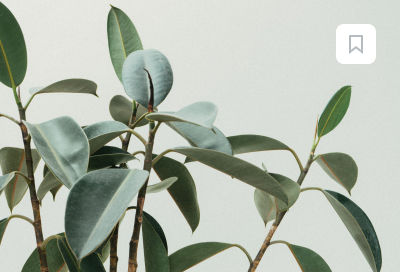
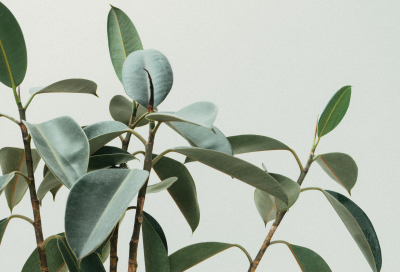
корректировки, до адаптива

Changed region(s): [[0.84, 0.0882, 0.96, 0.2353]]

diff --git a/src/index.html b/src/index.html
@@ -11,17 +11,18 @@
 <body>
   <div class="root">
     <section class="search">
+    <!--  <img src="<%=require('./images/georgia-de-lotz--UsJoNxLaNo-unsplash.jpg').default%>" alt="image" class="search__img"-->
       <header class="header">
         <div class="header__newsexplorer">NewsExplorer</div>
         <div class="header__container">
           <div class="header__main">
             <a href = "index.html" class="header__text header__text_white">Главная</a>
-            <hr class="header__vector header__hide header__text_white"> <!--TODO не БЭМ-->
+            <hr class="header__vector header__hide">
           </div>
-          <button class="button header__text header__hide">Авторизоваться</button>
+          <button class="button header__text header__text_white header__hide">Авторизоваться</button>
           <div class="header__main">
             <a href = "./add.html" class="header__text header__text_gray" target="_blank">Сохранённые статьи</a>
-            <hr class="header__vector"> <!--TODO сделать через вектор-->
+            <hr class="header__vector">
           </div>
           <button class="header__button header__button_white header__text header__text_white">Грета<img src="<%=require('./images/Union.png').default%>" alt="icon_logout" class="header__icon"></button>
         </div>
@@ -53,7 +54,7 @@
         <div class="card">
           <div class="card__container">
              <img src="<%=require('./images/image_01.jpg').default%>" alt="image" class="card__image">
-             <button class="card__button card__button_is-opened">Войдите, чтобы сохранять статьи</button>
+             <button class="card__button">Войдите, чтобы сохранять статьи</button>
              <button class="card__bookmark"><img src="<%=require('./images/bookmark_gray1.png').default%>"></button>
           </div>
           <h3 class="card__date">2 августа, 2019</h3>
@@ -66,7 +67,7 @@
         <div class="card">
           <div class="card__container">
              <img src="<%=require('./images/image_02.jpg').default%>" alt="image" class="card__image">
-             <button class="card__button card__button_is-opened">Войдите, чтобы сохранять статьи</button>
+             <button class="card__button">Войдите, чтобы сохранять статьи</button>
              <button class="card__bookmark"><img src="<%=require('./images/bookmark_blue1.png').default%>"></button>
           </div>
           <h3 class="card__date">2 августа, 2019</h3>
@@ -78,9 +79,9 @@
 
         <div class="card">
           <div class="card__container">
-             <img src="<%=require('./images/image_03.jpg').default%>" alt="image">
+             <img src="<%=require('./images/image_03.jpg').default%>" alt="image"  class="card__image">
              <button class="card__button card__button_is-opened">Войдите, чтобы сохранять статьи</button>
-             <button class="card__bookmark"><img src="<%=require('./images/bookmark.png').default%>" class="card__image"></button>
+             <button class="card__bookmark"><img src="<%=require('./images/bookmark.png').default%>"></button>
           </div>
           <h3 class="card__date">2 августа, 2019</h3>
           <h2 class="card__title">«Первозданная тайга»: новый фотопроект Игоря Шпиленка</h2>

diff --git a/src/add.html b/src/add.html
@@ -11,6 +11,7 @@
 </head>
 <body>
   <div class="root">
+    <section class="search">
     <header class="header">
       <div class="header__newsexplorer header__newsexplorer_dark">NewsExplorer</div>
       <div class="header__container">
@@ -24,6 +25,7 @@
         <button class="header__button header__button_dark header__text header__text_dark">Грета<img src="<%=require('./images/Union-dark.png').default%>" alt="icon_logout" class="header__icon"></button>
       </div>
     </header>
+  </section>
     <section class="content">
       <p class="content__text">Сохранённые статьи</p>
       <p class="content__text1">Грета, у вас 5 сохранённых статей</p>
@@ -45,10 +47,10 @@
         </div>
         <div class="card">
           <div class="card__container">
-             <img src="<%=require('./images/image_22.jpg').default%>" alt="image">
+             <img src="<%=require('./images/image_22.jpg').default%>" alt="image" class="card__image">
              <p class="card__keyword">Природа</p>
              <button class="card__button card__button_is-opened card__button_remove">Убрать из сохранённых</button>
-             <button class="card__bookmark"><img src="<%=require('./images/trash_black.png').default%>" class="card__image"></button>
+             <button class="card__bookmark"><img src="<%=require('./images/trash_black.png').default%>"></button>
           </div>
           <h3 class="card__date">2 августа, 2019</h3>
           <h2 class="card__title">Лесные огоньки: история одной фотографии</h2>
@@ -111,7 +113,7 @@
     </footer>
 
 
-  
+
 
   </div>
 </body>

diff --git a/babel.config.js b/babel.config.js
@@ -1,18 +1,35 @@
-const presets = [
+/* const presets = [
   [
     '@babel/env',
     {
-      targets: { // указать цели, для полифилов
-        edge: '15',
+      targets: {
+        edge: '17',
         ie: '11',
         firefox: '50',
         chrome: '64',
         safari: '11.1',
+        ChromeAndroid: '42'
       },
-      useBuiltIns: 'usage', // эта настройка babel-polyfill, если стоит значение usage, то будут подставлятся полифилы для версий браузеров которые указали ниже.
-      corejs: '3.4.1', // явно проставить версию corejs
+      useBuiltIns: 'usage',
+      corejs: '3.4.1',
+    },
+  ],
+]; */
+
+const presets = [
+  [
+    '@babel/env',
+    {
+      targets: [
+        'last 2 Chrome versions',
+        'last 2 ChromeAndroid versions',
+        'last 2 Firefox versions',
+        'last 2 Safari versions',
+        'Edge >= 15',
+      ],
+      useBuiltIns: 'usage',
+      corejs: '3.4.1',
     },
   ],
 ];
-
 module.exports = { presets };

diff --git a/src/blocks/header/header.css b/src/blocks/header/header.css
@@ -8,14 +8,13 @@
 @import url('./__button/header__button.css');
 @import url('./__hide/header__hide.css');
 
-
-
-
 .header {
   display: flex;
   height: 80px;
   width: 100%;
   flex-direction: row;
   justify-content: space-between;
+  /*position: absolute;
+  top: 0;*/
 
 }

diff --git a/src/blocks/results/__container/results__container.css b/src/blocks/results/__container/results__container.css
@@ -6,3 +6,14 @@
   flex-wrap: wrap;
 
 }
+/*
+.results__container {
+    width: 92%;
+    display: grid;
+    margin: 64px auto 0;
+    grid-row-gap: 16px;
+    grid-column-gap: 16px;
+    grid-template-columns: repeat(3, 1fr);
+ grid-template-rows: repeat(3, 1fr);*/
+
+

diff --git a/src/blocks/card/card.css b/src/blocks/card/card.css
@@ -11,9 +11,9 @@
 
 
 .card {
-  /*width: calc((100vw - 208px - 20px)/3);*/
-  width: 400px;
-  height: 600px;
+  width: calc((100vw - 208px - 20px)/3);
+  /*width: 300px;*/
+ height: 600px;
   display: flex;
   flex-direction: column;
   margin-right: 16px;

diff --git a/src/blocks/card/__bookmark/card__bookmark.css b/src/blocks/card/__bookmark/card__bookmark.css
@@ -2,8 +2,10 @@
   background-color: #fff;
 border-radius: 8px;
 position: absolute;
+top: 24px;
+right: 24px;
 height: 40px;
-margin: 24px 24px 0 336px;
+/*margin: 24px 24px 0 336px;*/
 z-index: 2;
 border: none;
 

diff --git a/src/blocks/root/root.css b/src/blocks/root/root.css
@@ -3,6 +3,7 @@
   font-family: 'Roboto', Arial, sans-serif;
   margin: 0 auto 0;
   background-color: #f5f6f7;
+  position: relative;
 
   -webkit-font-smoothing: antialiased;
   -moz-osx-font-smoothing: grayscale;

diff --git a/src/blocks/card/__button/card__button.css b/src/blocks/card/__button/card__button.css
@@ -15,7 +15,10 @@ height: 40px;
 
 color: #000000;
 position: absolute;
-margin: 24px 0 0 149px;
+top: 24px;
+left: 149px;
+
+/*margin: 24px 0 0 149px;*/
 
 border-radius: 10px;
 z-index: 1;

diff --git a/src/blocks/search/__title/search__title.css b/src/blocks/search/__title/search__title.css
@@ -3,5 +3,11 @@
   font-size: 60px;
   line-height: 64px;
   margin: 92.5px 416px 0 416px;
+  /*position: absolute;
+  top: 150px;
+  left: 420px;
+width: 608px;*/
+
+
 
 }

diff --git a/src/blocks/search/__subtitle/search__subtitle.css b/src/blocks/search/__subtitle/search__subtitle.css
@@ -3,5 +3,9 @@
   font-size: 18px;
   line-height: 24px;
   margin: 34.5px 479px 0 416px;
+  /*position: absolute;
+  top: 310px;
+  left: 420px;
+width: 608px;*/
 
 }

diff --git a/src/blocks/card/__image/card__image.css b/src/blocks/card/__image/card__image.css
@@ -1,3 +1,7 @@
 .card__image {
   border-radius: 16px 16px 0 0;
+  width: 100%;
+  /*width: 300px;*/
+  object-fit: cover;
+object-position: 0 0;
 }
